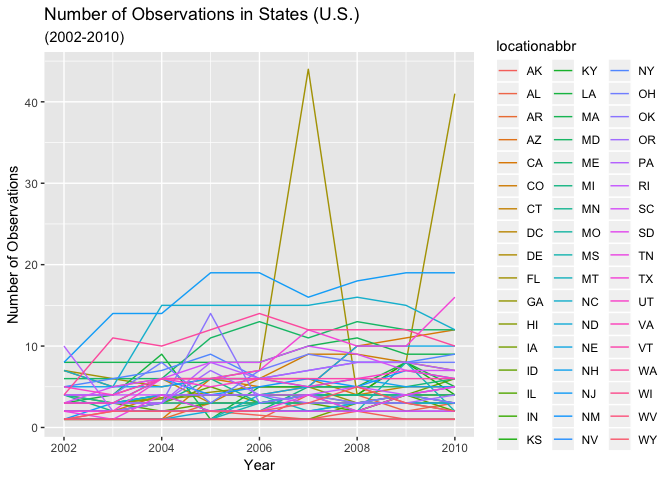
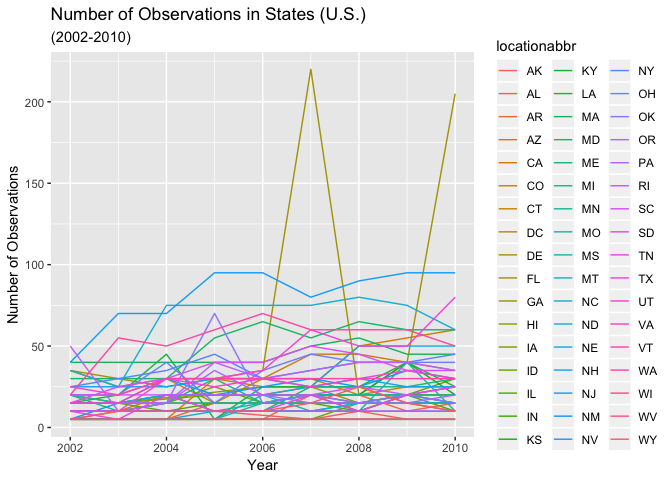
add few plots for problem 1 and 2

diff --git a/p8105_hw3_hy2580.md b/p8105_hw3_hy2580.md
@@ -13,9 +13,9 @@ brfss_overallhealth = brfss_smart2010 %>%
   janitor::clean_names() %>% 
   # focused on Overall Health topic
   # checked response with distinct(), no pre-collapsed categories
-  filter (topic == "Overall Health") %>% 
+  filter(topic == "Overall Health") %>% 
   # take levels form excellent to poor by factorize response
-  mutate(response = as.factor(response))
+  mutate(response = factor(response))
 ```
 
 Find states were observed at 7 locations in 2002
@@ -39,8 +39,7 @@ Make a spaghetti plot for number of observations in each state from 2002 to 2010
 
 ``` r
 brfss_overallhealth %>% 
-  distinct(locationabbr,locationdesc, year) %>% 
-  group_by(year) %>% 
+  group_by(year,locationabbr) %>% 
   count(locationabbr) %>% 
   ggplot(aes( x = year, y = n, color = locationabbr)) +
   geom_line() + 
@@ -49,6 +48,117 @@ brfss_overallhealth %>%
 
 ![](p8105_hw3_hy2580_files/figure-markdown_github/unnamed-chunk-3-1.png)
 
+Make a table showing, for the years 2002, 2006, and 2010, the mean and standard deviation of the proportion of “Excellent” responses across locations in NY State.
+
 ``` r
-instacart = instacart
+brfss_overallhealth %>% 
+  filter(year %in% c(2002, 2006, 2010),
+         response == "Excellent",
+         locationabbr == "NY") %>%
+  group_by(year) %>%
+  summarise(mean(data_value),
+            sd(data_value)) %>% 
+  knitr::kable()
 ```
+
+|  year|  mean(data\_value)|  sd(data\_value)|
+|-----:|------------------:|----------------:|
+|  2002|           24.04000|         4.486424|
+|  2006|           22.53333|         4.000833|
+|  2010|           22.70000|         3.567212|
+
+For each year and state, compute the average proportion in each response category (taking the average across locations in a state). Make a five-panel plot that shows, for each response category separately, the distribution of these state-level averages over time.
+
+``` r
+ave_prop_loca = brfss_overallhealth %>% 
+  group_by(locationabbr,year,response) %>% 
+  mean(data_value)
+```
+
+    ## Warning in mean.default(., data_value): argument is not numeric or logical:
+    ## returning NA
+
+``` r
+brfss_overallhealth %>%  
+  ggplot(aes(x = response, ave_prop_loca)) + 
+  geom_boxplot()
+```
+
+    ## Warning: Removed 10625 rows containing non-finite values (stat_boxplot).
+
+![](p8105_hw3_hy2580_files/figure-markdown_github/unnamed-chunk-5-1.png)
+
+Problem2
+--------
+
+This problem uses the Instacart data. DO NOT include this dataset in your local data directory; instead, load the data from the p8105.datasets package (it’s called instacart).
+
+The goal is to do some exploration of this dataset. To that end, write a short description of the dataset, noting the size and structure of the data, describing some key variables, and giving illstrative examples of observations. Then, do or answer the following (commenting on the results of each):
+
+``` r
+instacart_tidy = instacart %>%
+  janitor::clean_names() %>% 
+  na.omit()
+```
+
+How many aisles are there, and which aisles are the most items ordered from?
+
+``` r
+instacart_tidy %>% 
+  distinct(aisle) %>% 
+  nrow()
+```
+
+    ## [1] 134
+
+``` r
+instacart_tidy %>% 
+  count(aisle) %>% 
+  arrange(desc(n))
+```
+
+    ## # A tibble: 134 x 2
+    ##    aisle                              n
+    ##    <chr>                          <int>
+    ##  1 fresh vegetables              150609
+    ##  2 fresh fruits                  150473
+    ##  3 packaged vegetables fruits     78493
+    ##  4 yogurt                         55240
+    ##  5 packaged cheese                41699
+    ##  6 water seltzer sparkling water  36617
+    ##  7 milk                           32644
+    ##  8 chips pretzels                 31269
+    ##  9 soy lactosefree                26240
+    ## 10 bread                          23635
+    ## # ... with 124 more rows
+
+Make a plot that shows the number of items ordered in each aisle. Order aisles sensibly, and organize your plot so others can read it.
+
+Make a table showing the most popular item in each of the aisles “baking ingredients”, “dog food care”, and “packaged vegetables fruits”.
+
+``` r
+instacart_tidy %>% 
+  filter(aisle %in% c("baking ingredients","dog food care","packaged vegetables fruits")) %>% 
+  group_by(aisle) %>% 
+  count(product_name) %>% 
+  top_n(1,n) %>% 
+  knitr::kable()
+```
+
+| aisle                      | product\_name                                 |     n|
+|:---------------------------|:----------------------------------------------|-----:|
+| baking ingredients         | Light Brown Sugar                             |   499|
+| dog food care              | Snack Sticks Chicken & Rice Recipe Dog Treats |    30|
+| packaged vegetables fruits | Organic Baby Spinach                          |  9784|
+
+Make a table showing the mean hour of the day at which Pink Lady Apples and Coffee Ice Cream are ordered on each day of the week; format this table for human readers (i.e. produce a 2 x 7 table).
+
+This problem uses the NY NOAA data. DO NOT include this dataset in your local data directory; instead, load the data from the p8105.datasets package (it’s called ny\_noaa).
+
+The goal is to do some exploration of this dataset. To that end, write a short description of the dataset, noting the size and structure of the data, describing some key variables, and indicating the extent to which missing data is an issue. Then, do or answer the following (commenting on the results of each): \#\#Problem 3
+
+Do some data cleaning. Create separate variables for year, month, and day. Ensure observations for temperature, precipitation, and snowfall are given in reasonable units. For snowfall, what are the most commonly observed values? Why?
+
+Make a two-panel plot showing the average max temperature in January and in July in each station across years. Is there any observable / interpretable structure? Any outliers?
+
+Make a two-panel plot showing (i) tmax vs tmin for the full dataset (note that a scatterplot may not be the best option); and (ii) make a plot showing the distribution of snowfall values greater than 0 and less than 100 separately by year.
